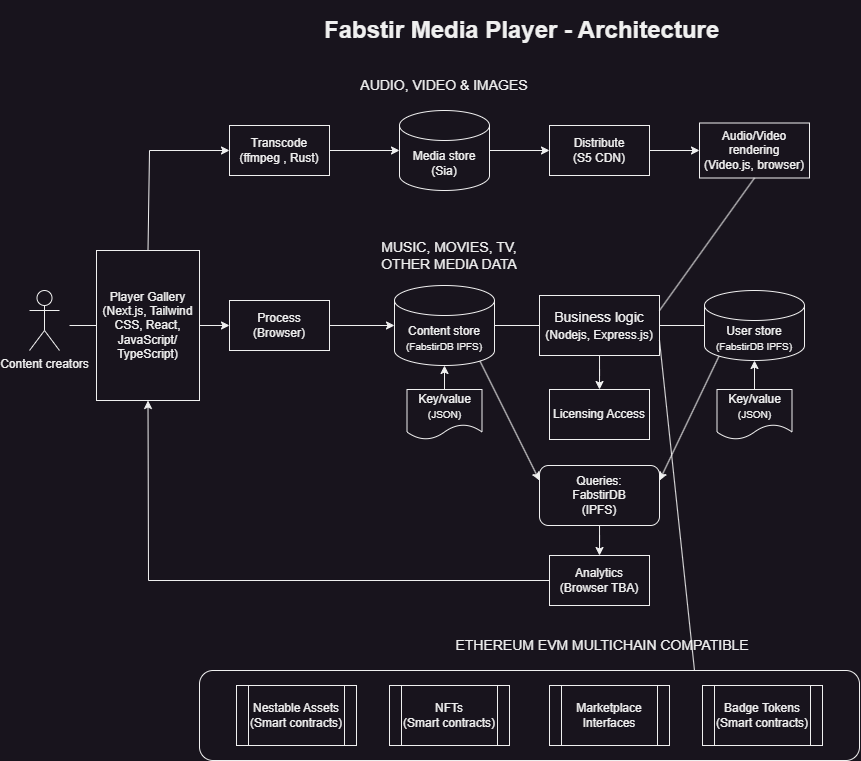
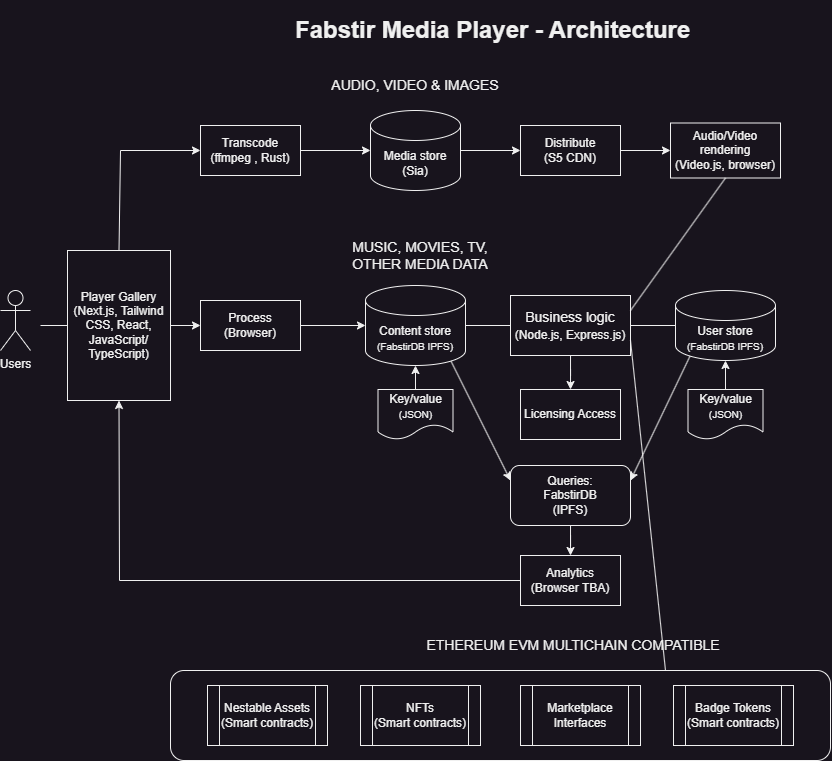
Update architecture diagram and notes

diff --git a/progress_reports/FabstirWeb3MediaPlayer_20240910.md b/progress_reports/FabstirWeb3MediaPlayer_20240910.md
@@ -1,0 +1,29 @@
+## Fabstir Media Player #2 - Progress Report #5
+
+### What progress was made on your grant this month?
+
+- Developed a permissioned/permissionless marketplace integration system, allowing creators to specify their preferred royalty rates and market listings
+- Implemented a state machine system for tracking NFTs across different marketplaces for creators and resellers (e.g. accepted, pending, rejected)
+- Added support for creators to set custom fees for NFT sales and auctions, with automatic listing on selected marketplaces
+- Added some additional blockchain events for analytics data for content creators, providing further transparency of marketplace sales operations.
+- Designed standard smart contract interfaces for marketplace integration, to help with seamless integration with the Fabstir Media Player
+- Wrote an article explaining Fabstir's new economic model for marketplaces here: https://github.com/Fabstir/fabstir-web3-media-player/blob/main/other_reports/New%20economy%20for%20Enteratinment%20Industry%20202409.md
+
+### Summarize any problems that you ran into this month and how you'll be solving them.
+
+- Took on an extra developer to design a colour customisation branding (skinning system) for the media player. Unfortunately wasn't ready in time for this report. Once feature has passed my testing, will merge it into the Fabstir Media Player repo.
+- Expanded the scope of the media player to include what is hoped will be a sustainable economic model for the player. This delayed work on deployment. Plan to solve this by hiring external developer to handle the deployment whilst I concentrate on the application support and bringing in business to the player and the Fabstir ecosystem.
+
+### Links to repos worked on this month:
+
+https://github.com/Fabstir/Fabstir_Media_Player_Snaps
+https://github.com/Fabstir/media-player-smart-contracts
+https://github.com/Fabstir/fabstirdb
+https://github.com/Fabstir/fabstir-web3-media-player
+
+### What will you be working on next?
+
+- Deploy and release what is current as the MVP of the Fabstir Media Player.
+- Finish off the colour customisation branding system.
+- Develop data and graphical analytics module for creators and resellers to receive comprehensive anonymous information about content usage.
+- Live demo to film industry participants of the Fabstir Media Player and its ecosystem in a London UK cinema room.

diff --git a/progress_reports/FabstirWeb3MediaPlayer_20240707.md b/progress_reports/FabstirWeb3MediaPlayer_20240707.md
@@ -1,0 +1,26 @@
+## Fabstir Media Player #2 - Progress Report #3
+
+### What progress was made on your grant this month?
+
+- Added support for automatically transferring encryption keys between users; for example, when a user has bought an NFT that contains encrypted video(s).
+- Added code for account abstraction tokens (non-transferable NFTs). Will allow users to sign agreements (e.g. legal documents) onchain for use of data, or for token gating, or for certificates.
+- Added multi-storage support for media. For example, a video NFT can have its media transcoded to Sia storage (through S5) for smoother playback at higher resolution whilst maintain maximum NFT marketplace compatibility by transcoding a trailer or audio sample to IPFS to allow potential buyers on marketplaces to review before buying. See video demonstration here: https://www.dropbox.com/scl/fi/lrtep4lx9mpzkor87ay0j/Fabstir-Media-Player-minting-video-NFT-20240707p1.mp4
+- Started some initial work on the cloud node deployment of the media player.The application software stack consists of maintaining four servers.
+
+### Summarize any problems that you ran into this month and how you'll be solving them.
+
+- Fabstir's decentralised licensing server system is moderately complex. Will need more testing for potential security concerns and/or third party review.
+- S5 specs are being finalised so not able to start on adding graph database support to Sia yet.
+
+### Links to repos worked on this month:
+
+https://github.com/Fabstir/Fabstir_Media_Player_Snaps
+https://github.com/Fabstir/fabstirdb-backend
+https://github.com/Fabstir/fabstirdb
+https://github.com/Fabstir/fabstir-transcoder
+
+### What will you be working on next?
+
+- Continue testing of the media player software stack on cloud instances.
+- Further integration of the media player with Fabstir's short film platform.
+- Implementation of UI for the user account dashboard for transcoding, storage (Sia/S5) and NFT minting fees etc.

diff --git a/progress_reports/FabstirWeb3MediaPlayer_20240606.md b/progress_reports/FabstirWeb3MediaPlayer_20240606.md
@@ -1,0 +1,23 @@
+## Fabstir Media Player #2 - Progress Report #2
+
+### What progress was made on your grant this month?
+
+- Added multi-chain support. Media player gallery can now list NFTs from multiple EVM compatible blockchains simultaneously and user can play any of them seamlessly.
+- User can connect to any of the whitelisted blockchains directly using the wallet widget UI. Then media player can mint or perform transactions on the connected blockchain. User can switch at any time to another chain in the wallet and carry out operations there. Testing was performed on Base Sepolia and Polygon Amoy.
+- Added user accounts that are saved to FabstirDB to enable use of the media player without needing MetaMask, and for the user dashboard.
+
+### Summarize any problems that you ran into this month and how you'll be solving them.
+
+- Adding multichain support to the media player greatly increased its functionality, but opened up some  issues for Particle Network wallet to work with this new environment. Had to work with their team and Biconomy to resolve them.
+- Waiting on some S5 Rust implementation that will allow for development of FabstirDB database support for Sia.
+
+### Links to repos worked on this month:
+https://github.com/Fabstir/Fabstir_Media_Player_Snaps
+https://github.com/Fabstir/fabstirdb-backend
+https://github.com/Fabstir/fabstirdb
+https://github.com/Fabstir/userdb-client-example
+
+### What will you be working on next?
+- Implementation of UI for the user account dashboard for transcoding, storage (Sia/S5) and NFT minting fees etc.
+- Early testing of the media player on a cloud node
+- Add support for graph database to S5/Sia infrastructure

diff --git a/progress_reports/FabstirWeb3MediaPlayer_20240805.md b/progress_reports/FabstirWeb3MediaPlayer_20240805.md
@@ -1,0 +1,26 @@
+## Fabstir Media Player #2 - Progress Report #4
+
+### What progress was made on your grant this month?
+
+- Added new standard for semi-fungible NFT nestable structures for the use case of video series and box sets
+- Fixed the import of nestable structure of encrypted media to new owner account
+- Fixed issue with audio player and scrolling lyrics
+- Added support for multiple subtitles selectable from player cc menu
+- Added support for multiple audio channels for e.g. foreign language dubbed tracks
+- Added support for credits system that includes listing departments and people with individual credits attributes
+- Added NFT permissions page to allow creators to specify which NFT markets to enter and under what royalty rates
+
+### Summarize any problems that you ran into this month and how you'll be solving them.
+
+- Fabstir Media Player has a lot of features so initial release will be for invite only to catch any early issues
+- Will temporarily remove MetaMask Snaps features from a production version as audit and Consensys approval required that can be done later
+
+### Links to repos worked on this month:
+
+https://github.com/Fabstir/Fabstir_Media_Player_Snaps
+
+### What will you be working on next?
+
+- Media player features complete for initial release
+- Move on now to deployment and tests
+- Test integration of the media player with Fabstir's short film platform.
